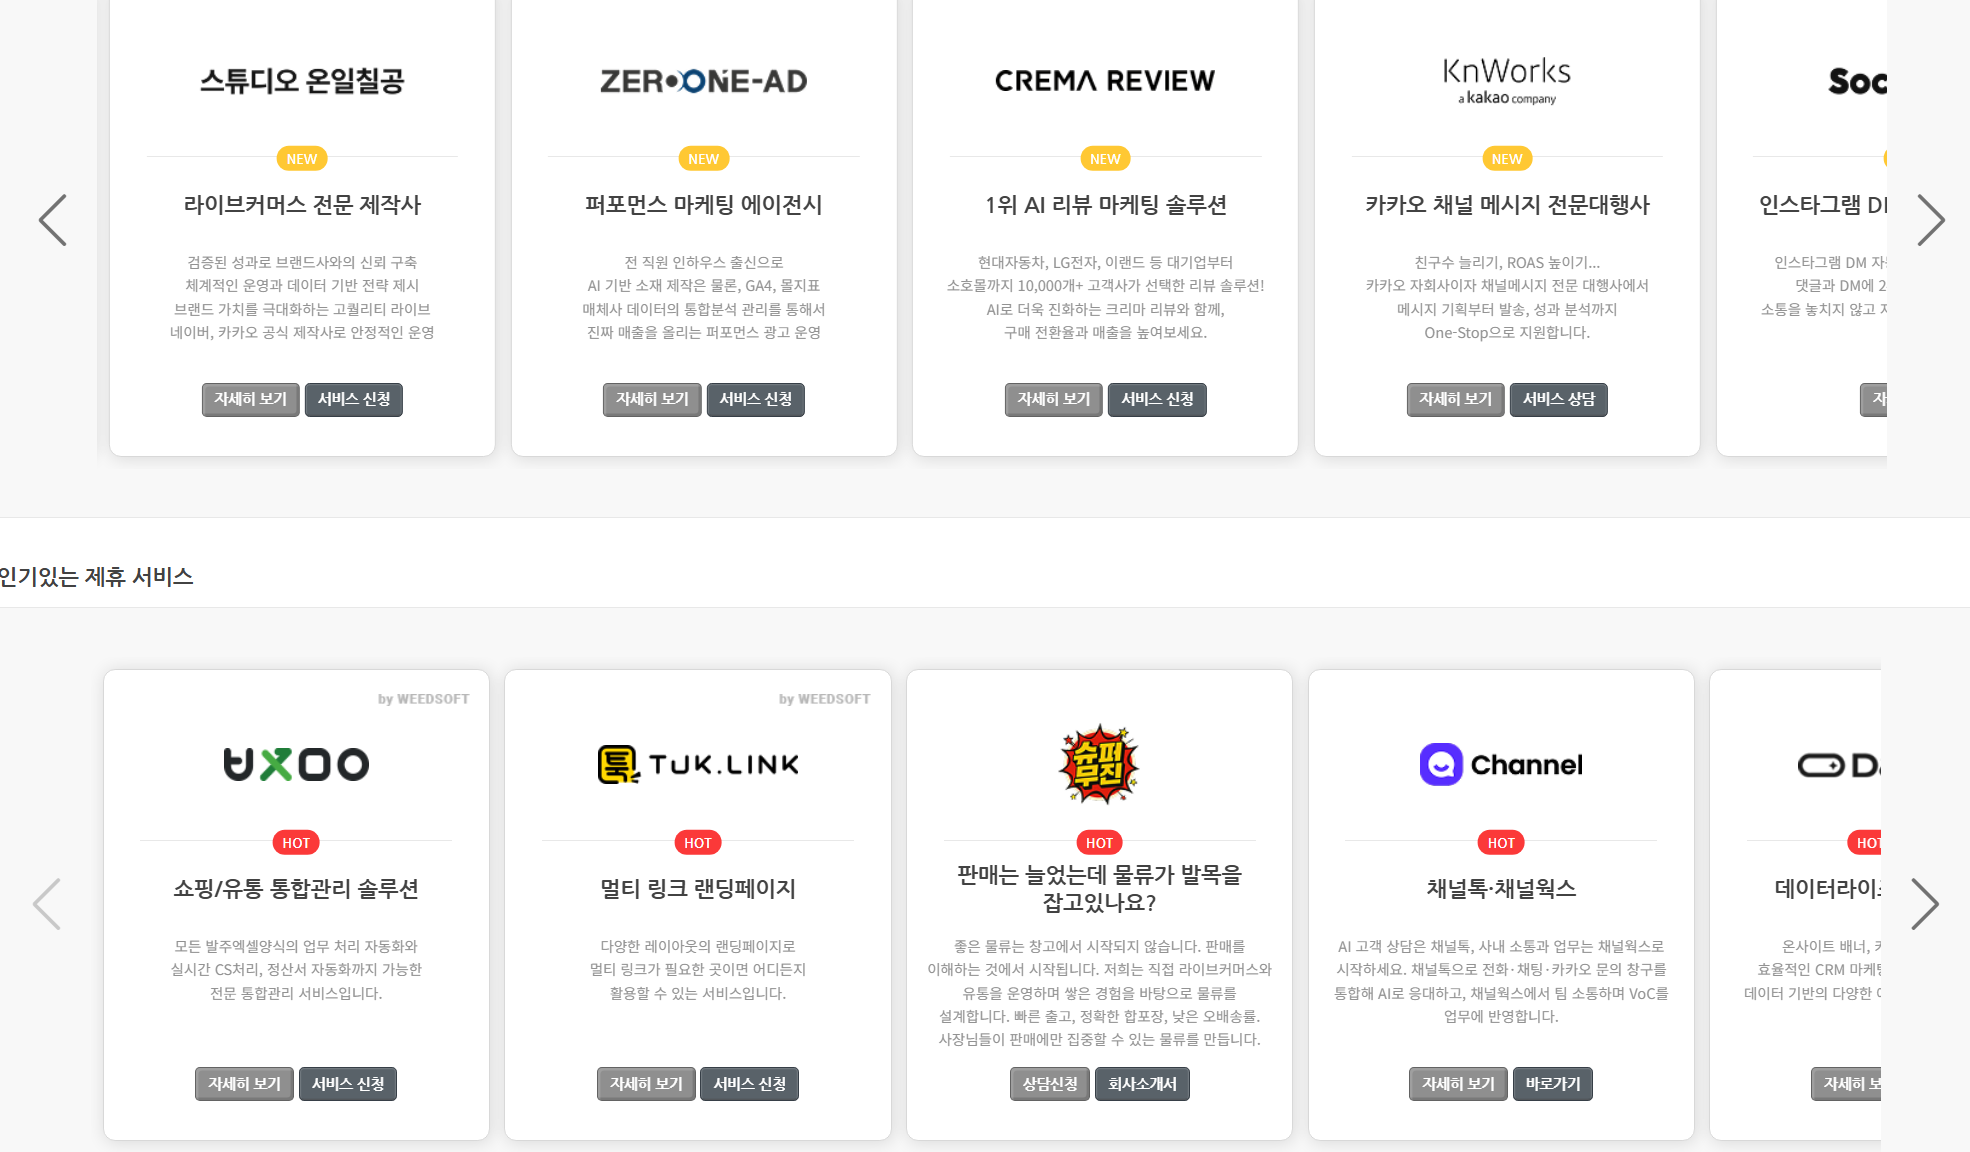
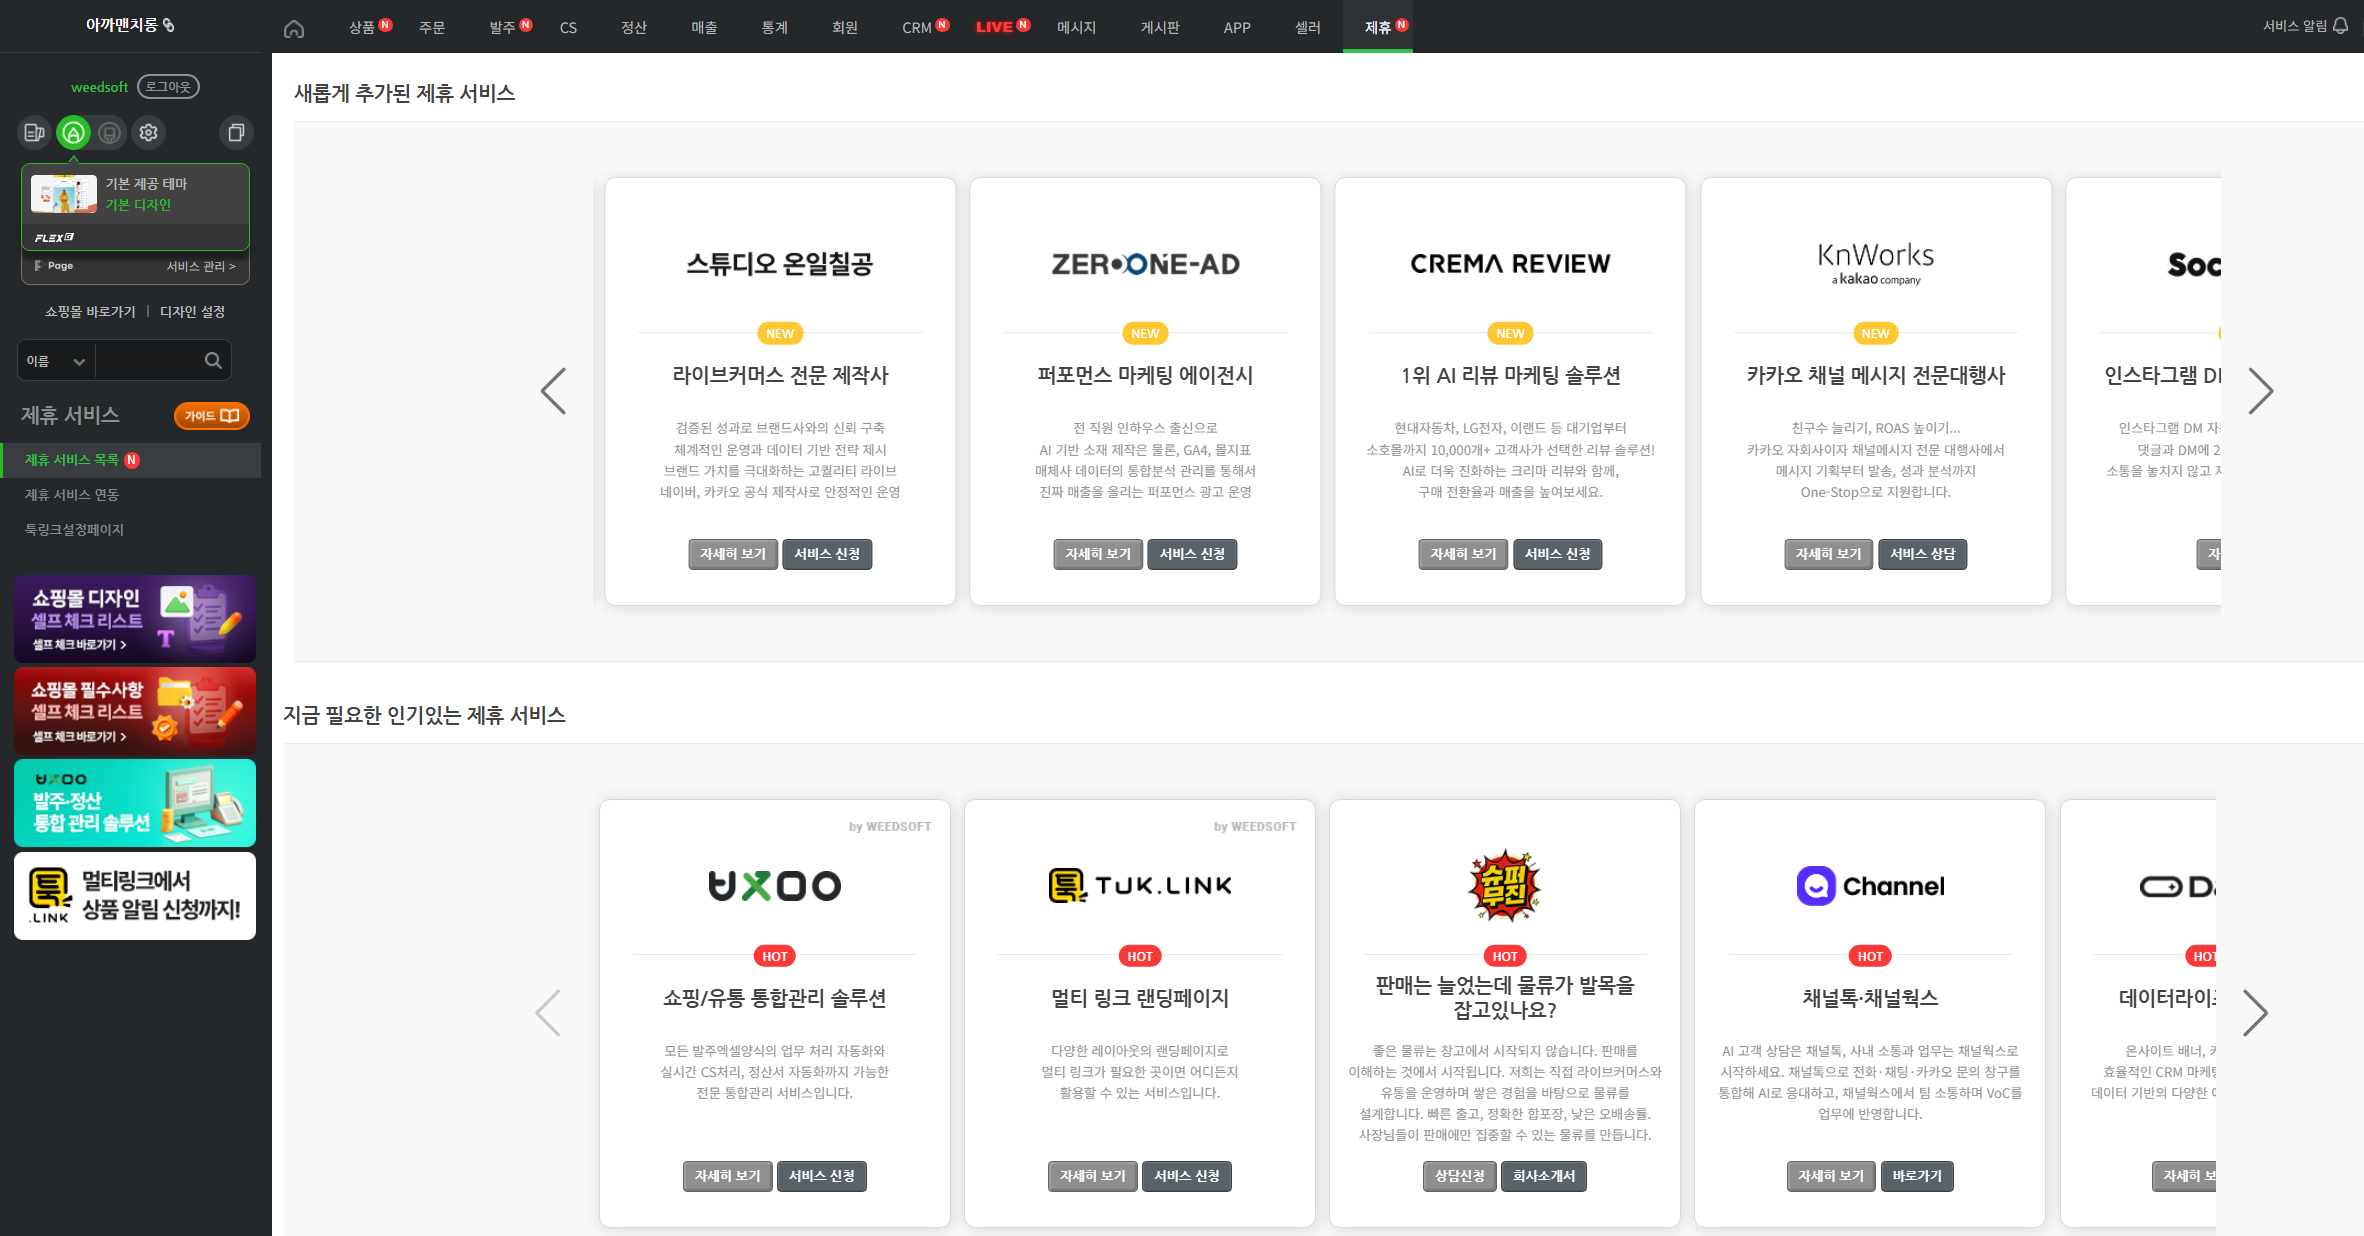
제휴 서비스 목록: 원본 캡처로 교체(Pro GNB 포함, 기기 픽셀 1:1 표시로 번짐 제거), LNB 하단 배너 미노출, 플래그를 [Basic 지원]으로 · 셀렉트를 전체/Basic 지원으로 변경

diff --git a/prototype/partner/01.html b/prototype/partner/01.html
@@ -7,38 +7,52 @@
 <link rel="stylesheet" href="../subscription/subscription.css">
 <link rel="stylesheet" href="../admin/settings.css">
 <style>
+  /* 캡처를 기기 픽셀 1:1로 표시해 번짐 방지 (가로가 넘치면 스크롤) */
+  .pt-canvas { overflow-x: auto; }
   .capture-wrap { position: relative; line-height: 0; container-type: inline-size; }
-  .pt-filter {
+  .capture-wrap img { display: block; max-width: none; }
+  /* LNB 하단 배너 영역 미노출 */
+  .pt-lnb-cover { position: absolute; background-color: #25282a; }
+  /* 지원 플랜 셀렉트 (신규 · 빨간 박스 강조) */
+  .pt-filter-box {
+    position: absolute;
     display: flex;
     align-items: center;
-    justify-content: flex-end;
-    gap: 8px;
-    padding: 12px 20px;
-    border-bottom: 1px solid #e3e4e8;
-    font-size: 13px;
+    gap: calc(8 / 2364 * 100cqw);
+    padding: calc(6 / 2364 * 100cqw) calc(12 / 2364 * 100cqw);
+    border: calc(3 / 2364 * 100cqw) solid #e5242b;
+    border-radius: calc(4 / 2364 * 100cqw);
+    background-color: #ffffff;
+    font-size: calc(17 / 2364 * 100cqw);
+    line-height: normal;
     color: #333333;
   }
-  .pt-filter select { height: 30px; min-width: 120px; padding: 0 8px; border: 1px solid #c9cbd1; border-radius: 3px; font-size: 13px; }
+  .pt-filter-box select {
+    height: calc(36 / 2364 * 100cqw);
+    min-width: calc(150 / 2364 * 100cqw);
+    padding: 0 calc(8 / 2364 * 100cqw);
+    border: 1px solid #c9cbd1;
+    border-radius: 3px;
+    font-size: calc(17 / 2364 * 100cqw);
+  }
   /* 캡처 위 카드 영역: 플래그 + 필터에 맞지 않는 카드는 흐리게(미노출 표현) */
   .pt-card { position: absolute; line-height: normal; transition: background-color 0.15s; }
   .pt-card.is-hidden { background-color: rgba(240, 241, 244, 0.88); }
   .pt-flag {
     position: absolute;
-    top: calc(14 / 1970 * 100cqw);
-    left: calc(14 / 1970 * 100cqw);
-    padding: calc(4 / 1970 * 100cqw) calc(10 / 1970 * 100cqw);
-    border-radius: calc(4 / 1970 * 100cqw);
+    top: calc(16 / 2364 * 100cqw);
+    left: calc(16 / 2364 * 100cqw);
+    padding: calc(5 / 2364 * 100cqw) calc(12 / 2364 * 100cqw);
+    border-radius: calc(4 / 2364 * 100cqw);
     background-color: #3140d6;
     color: #ffffff;
-    font-size: calc(15 / 1970 * 100cqw);
+    font-size: calc(17 / 2364 * 100cqw);
     font-weight: bold;
     white-space: nowrap;
+    outline: calc(3 / 2364 * 100cqw) solid #e5242b;
+    outline-offset: calc(3 / 2364 * 100cqw);
   }
   .pt-flag .num-mark { margin-left: 4px; }
-  /* 신규 요소 강조 (빨간 박스) */
-  .pt-filter-box { display: flex; align-items: center; gap: 8px; padding: 6px 10px; border: 2px solid #e5242b; border-radius: 4px; }
-  .pt-flag { outline: calc(3 / 1970 * 100cqw) solid #e5242b; outline-offset: calc(3 / 1970 * 100cqw); }
-  .capture-wrap img { display: block; width: 100%; height: auto; }
 </style>
 </head>
 <body>
@@ -264,35 +278,29 @@
 
 
   <div class="main-center">
-    <div class="screen-canvas">
-      <div class="st-gnb">
-        <div class="st-gnb-shop">테스트쇼핑몰 🔗</div>
-        <nav class="st-gnb-menu"><span class="num-mark" style="align-self:center;margin-right:4px;">1</span><span class="st-gnb-item is-home">⌂</span><span class="st-gnb-item">상품 <span class="st-n">N</span></span><span class="st-gnb-item">주문</span><span class="st-gnb-item">발주 <span class="st-n">N</span></span><span class="st-gnb-item">CS</span><span class="st-gnb-item">정산</span><span class="st-gnb-item">매출</span><span class="st-gnb-item">통계</span><span class="st-gnb-item">회원</span><span class="st-gnb-item">CRM <span class="st-n">N</span></span><span class="st-gnb-item is-live">LIVE <span class="st-n">N</span></span><span class="st-gnb-item">메시지</span><span class="st-gnb-item">게시판</span><span class="st-gnb-item">APP</span><span class="st-gnb-item">셀러</span><span class="st-gnb-item">제휴 <span class="st-n">N</span></span></nav>
-        <div class="st-gnb-right">서비스 알림 🔔</div>
-      </div>
-      <div class="pt-filter">
-        <div class="pt-filter-box">
+    <div class="screen-canvas pt-canvas">
+      <div class="capture-wrap">
+        <img src="01.png" alt="제휴 서비스 목록 화면 (기존 어드민 캡처)" id="pt-img">
+        <span class="num-mark" style="position:absolute;top:0.971%;left:0.5%;line-height:normal;">1</span>
+        <div class="pt-lnb-cover" style="left:0;top:45.955%;width:11.506%;bottom:0;"></div>
+        <div class="pt-filter-box" style="top:5.547%;right:0.700%;">
           <label for="pt-plan">지원 플랜</label>
           <select id="pt-plan">
             <option value="all" selected>전체</option>
-            <option value="basic">Basic</option>
-            <option value="pro">Pro</option>
+            <option value="basic">Basic 지원</option>
           </select>
           <span class="num-mark">2</span>
         </div>
-      </div>
-      <div class="capture-wrap">
-        <img src="01.png" alt="제휴 서비스 목록 화면 (기존 어드민 캡처)">
-        <div class="pt-card" data-plan="pro" title="스튜디오 온일칠공" style="left:5.584%;top:0.000%;width:19.543%;height:39.583%;"><span class="pt-flag">Pro 전용 <span class="num-mark">3</span></span></div>
-        <div class="pt-card" data-plan="pro" title="제로원애드" style="left:25.990%;top:0.000%;width:19.543%;height:39.583%;"><span class="pt-flag">Pro 전용</span></div>
-        <div class="pt-card" data-plan="pro" title="크리마" style="left:46.345%;top:0.000%;width:19.543%;height:39.583%;"><span class="pt-flag">Pro 전용</span></div>
-        <div class="pt-card" data-plan="both" title="케이앤웍스" style="left:66.751%;top:0.000%;width:19.543%;height:39.583%;"></div>
-        <div class="pt-card" data-plan="both" title="소셜비즈" style="left:87.157%;top:0.000%;width:8.629%;height:39.583%;"></div>
-        <div class="pt-card" data-plan="pro" title="UXOO" style="left:5.279%;top:58.160%;width:19.543%;height:40.799%;"><span class="pt-flag">Pro 전용</span></div>
-        <div class="pt-card" data-plan="pro" title="TUK.LINK" style="left:25.635%;top:58.160%;width:19.594%;height:40.799%;"><span class="pt-flag">Pro 전용</span></div>
-        <div class="pt-card" data-plan="pro" title="슈퍼루친" style="left:46.041%;top:58.160%;width:19.543%;height:40.799%;"><span class="pt-flag">Pro 전용</span></div>
-        <div class="pt-card" data-plan="pro" title="채널톡" style="left:66.447%;top:58.160%;width:19.543%;height:40.799%;"><span class="pt-flag">Pro 전용</span></div>
-        <div class="pt-card" data-plan="pro" title="데이터라이즈" style="left:86.802%;top:58.160%;width:8.731%;height:40.799%;"><span class="pt-flag">Pro 전용</span></div>
+        <div class="pt-card" data-plan="pro" title="스튜디오 온일칠공" style="left:25.600%;top:14.345%;width:14.800%;height:34.618%;"></div>
+        <div class="pt-card" data-plan="pro" title="제로원애드" style="left:41.050%;top:14.345%;width:14.800%;height:34.618%;"></div>
+        <div class="pt-card" data-plan="pro" title="크리마" style="left:56.500%;top:14.345%;width:14.800%;height:34.618%;"></div>
+        <div class="pt-card" data-plan="both" title="케이앤웍스" style="left:71.950%;top:14.345%;width:14.800%;height:34.618%;"><span class="pt-flag">Basic 지원 <span class="num-mark">3</span></span></div>
+        <div class="pt-card" data-plan="both" title="소셜비즈" style="left:87.400%;top:14.345%;width:6.550%;height:34.618%;"><span class="pt-flag">Basic 지원</span></div>
+        <div class="pt-card" data-plan="pro" title="UXOO" style="left:25.350%;top:64.742%;width:14.800%;height:34.618%;"></div>
+        <div class="pt-card" data-plan="pro" title="TUK.LINK" style="left:40.800%;top:64.742%;width:14.800%;height:34.618%;"></div>
+        <div class="pt-card" data-plan="pro" title="슈퍼루친" style="left:56.250%;top:64.742%;width:14.800%;height:34.618%;"></div>
+        <div class="pt-card" data-plan="pro" title="채널톡" style="left:71.700%;top:64.742%;width:14.800%;height:34.618%;"></div>
+        <div class="pt-card" data-plan="pro" title="데이터라이즈" style="left:87.150%;top:64.742%;width:6.600%;height:34.618%;"></div>
       </div>
     </div>
   </div>
@@ -301,14 +309,24 @@
     <h2>화면 설명</h2>
     <p class="desc-trigger">GNB의 [제휴]를 눌렀을 때 표시됩니다.</p>
     <div class="desc-numbered">
-      <div class="desc-numbered-row"><span class="num-mark">1</span> Pro GNB를 그대로 사용합니다. 그 외 화면은 기존 제휴 서비스 목록과 같습니다.</div>
-      <div class="desc-numbered-row"><span class="num-mark">2</span> 지원 플랜(전체 · Basic · Pro)을 골라 카드를 걸러 봅니다. 기본값은 전체입니다. Basic은 Basic 지원 제휴사만, Pro는 Pro 지원 제휴사 전체를 보여줍니다. (프로토타입에서는 걸러지는 카드를 흐리게 표시)</div>
-      <div class="desc-numbered-row"><span class="num-mark">3</span> Basic을 지원하지 않는 제휴사 카드에 [Pro 전용] 플래그를 붙입니다. 기준은 제휴사 관리 목록의 Basic · Pro 지원 여부이며, 목록에 없는 제휴사는 Pro 전용으로 봅니다.</div>
+      <div class="desc-numbered-row"><span class="num-mark">1</span> Pro GNB와 제휴 서비스 LNB(제휴 서비스 목록 · 제휴 서비스 연동 · 톡링크설정페이지)를 그대로 사용합니다. LNB 하단 배너는 노출하지 않습니다. 그 외 화면은 기존 제휴 서비스 목록과 같습니다.</div>
+      <div class="desc-numbered-row"><span class="num-mark">2</span> 지원 플랜(전체 · Basic 지원)을 골라 카드를 걸러 봅니다. 기본값은 전체입니다. 모든 제휴사가 Pro를 지원하므로 Pro 선택지는 두지 않습니다. Basic 지원을 고르면 Basic 지원 제휴사만 보여줍니다. (프로토타입에서는 걸러지는 카드를 흐리게 표시)</div>
+      <div class="desc-numbered-row"><span class="num-mark">3</span> Basic도 지원하는 제휴사 카드에 [Basic 지원] 플래그를 붙입니다. 기준은 제휴사 관리 목록의 Basic 지원 여부이며, 목록에 없는 제휴사는 Pro 전용(플래그 없음)으로 봅니다.</div>
     </div>
   </div>
 
 </div>
 <script>
+  (function () {
+    var img = document.getElementById('pt-img');
+    function fit() {
+      var w = (img.naturalWidth / (window.devicePixelRatio || 1)) + 'px';
+      img.style.width = w;
+      img.parentNode.style.width = w;
+    }
+    if (img.complete) fit(); else img.addEventListener('load', fit);
+    window.addEventListener('resize', fit);
+  })();
   document.getElementById('pt-plan').addEventListener('change', function (e) {
     var v = e.target.value;
     document.querySelectorAll('.pt-card').forEach(function (c) {
